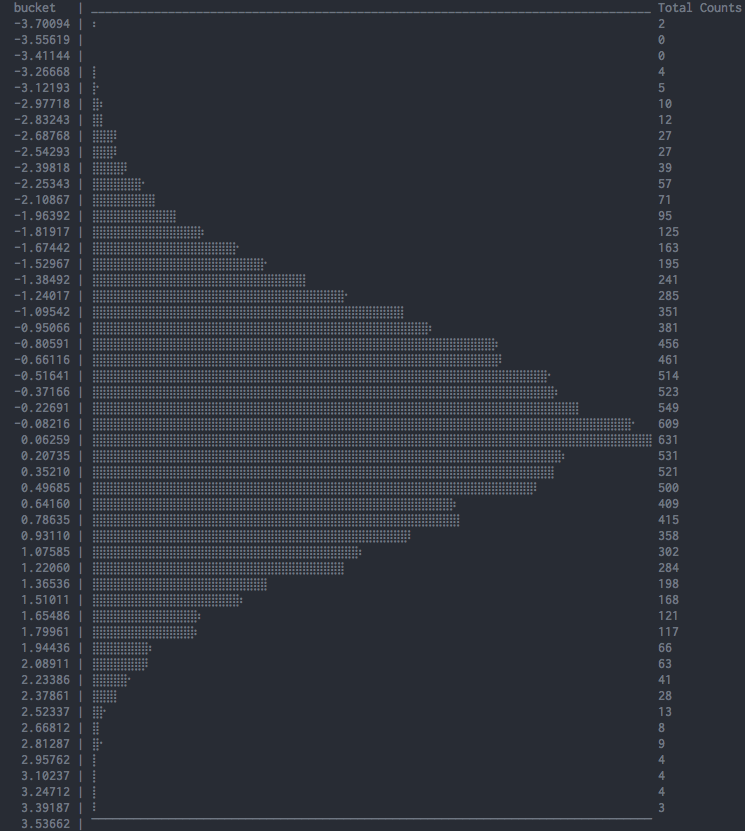
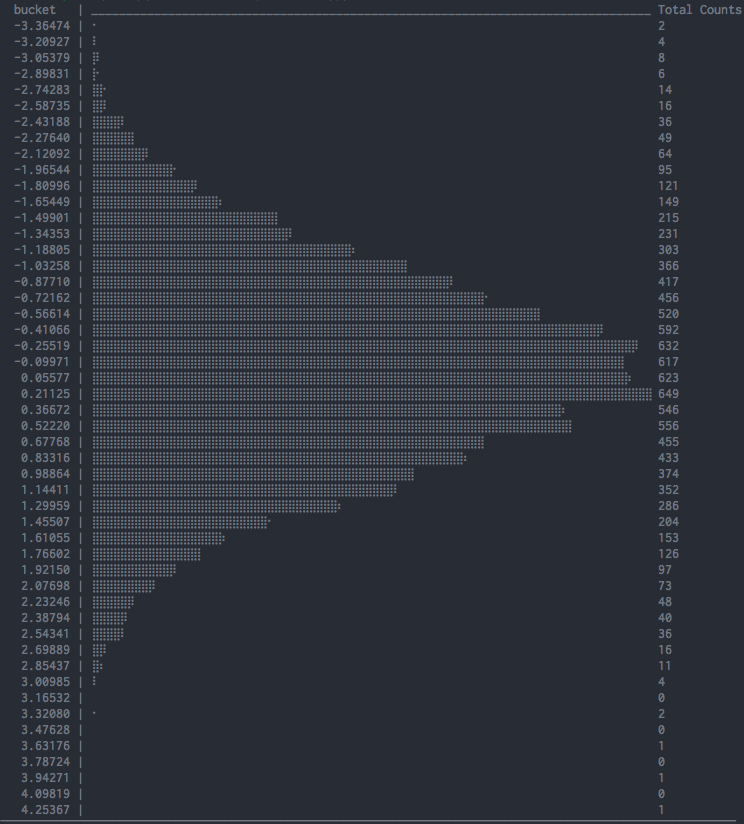
Use center of bins as representation

Changed region(s): [[0.0, 0.0, 1.0, 1.0]]

diff --git a/plotille.py b/plotille.py
@@ -64,11 +64,11 @@ def hist(X, bins=50, width=80, log_scale=False, linesep=os.linesep):  # noqa: N8
     for i in range(bins):
         hight = int(width * 8 * _scale(h[i]) / h_max)
         canvas += ['{:10.5f} | {:{width}s} {}'.format(
-            b[i],
+            (b[i] + b[i+1]) / 2,  # use bucket center as representation
             '⣿' * (hight // 8) + lasts[hight % 8],
             h[i],
             width=width)]
-    canvas += ['{:10.5f} | {}'.format(b[bins], '‾' * width)]
+    canvas += ['‾' * (10 + 3 + width + 12)]
     return linesep.join(canvas)
 
 
